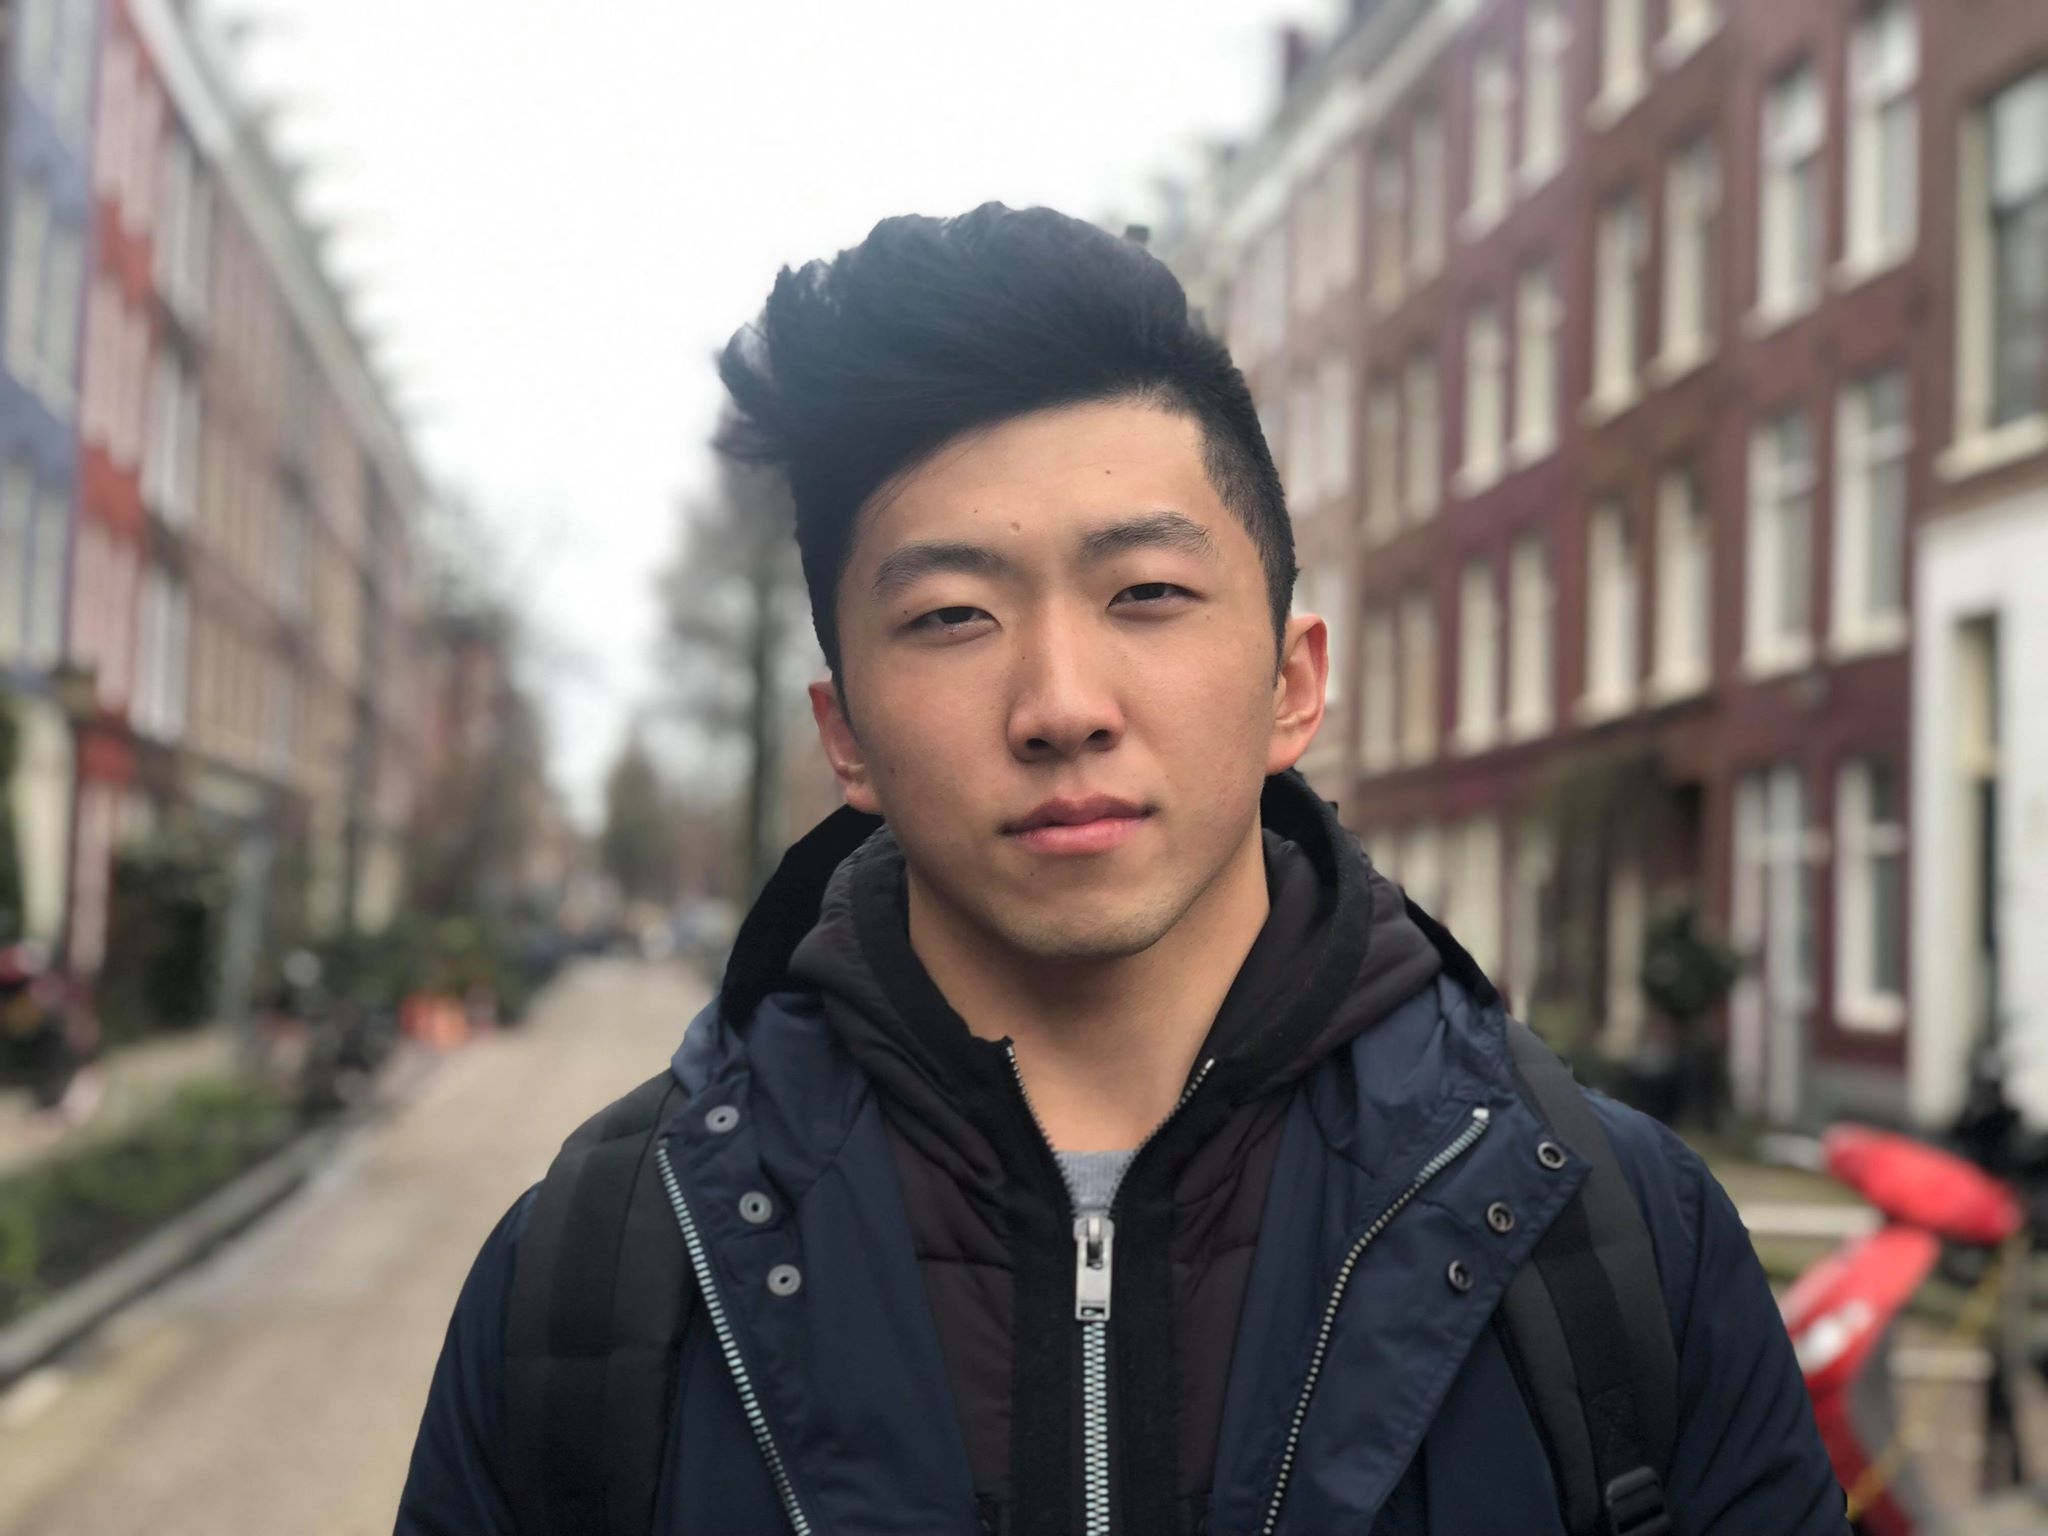
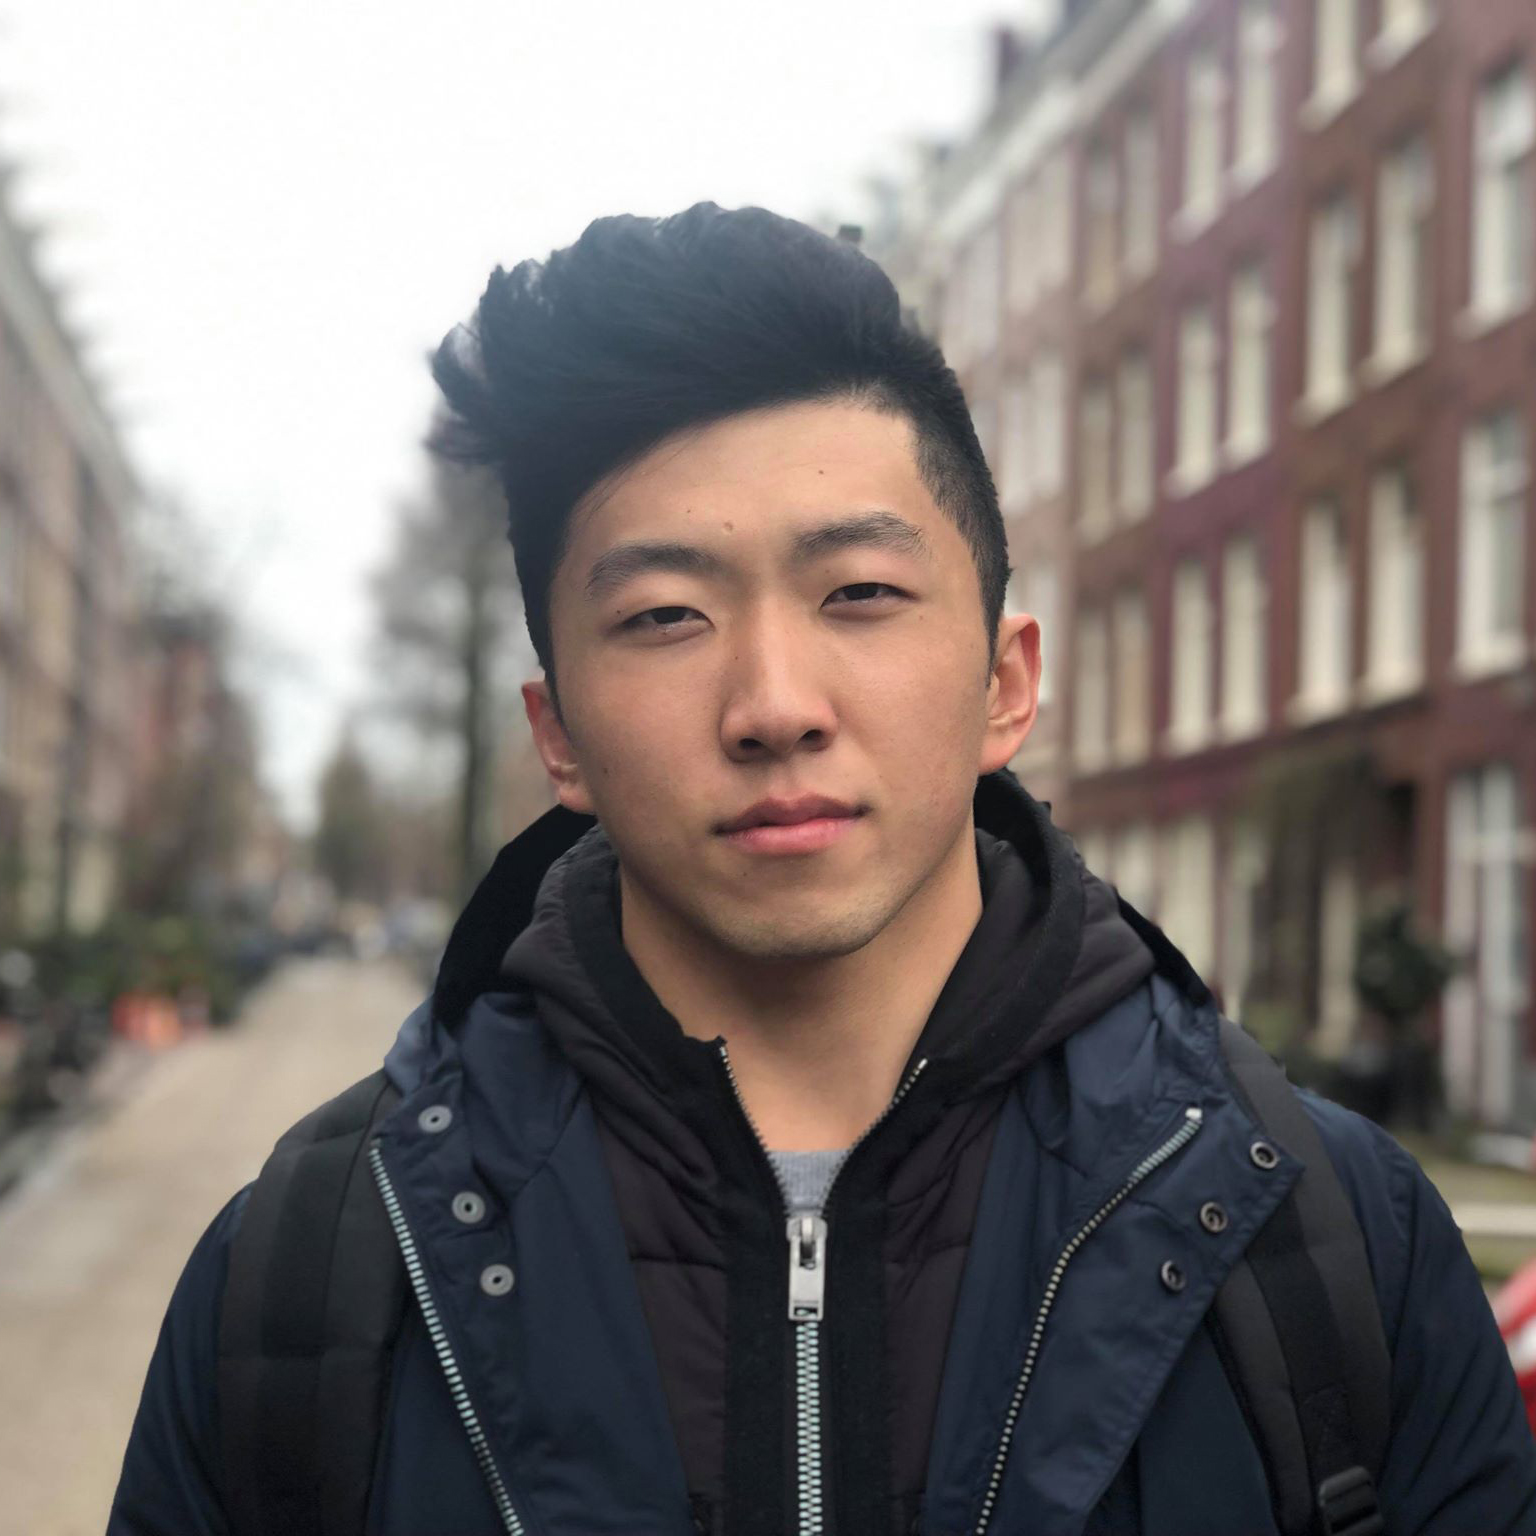
Entête crée

diff --git a/html/home.html b/html/home.html
@@ -2,34 +2,42 @@
 <html>
 <head>
 	<title>home</title>
-	<link rel="stylesheet" type="text/css" href="style.css">
+	<link rel="stylesheet" type="text/css" href="../css/style.css">
 	<link rel="stylesheet" href="https://stackpath.bootstrapcdn.com/bootstrap/4.3.1/css/bootstrap.min.css">
 	<script src="https://code.jquery.com/jquery-3.3.1.slim.min.js"></script>
 	<script src="https://cdnjs.cloudflare.com/ajax/libs/popper.js/1.14.7/umd/popper.min.js"></script>
 	<script src="https://stackpath.bootstrapcdn.com/bootstrap/4.3.1/js/bootstrap.min.js" ></script>
+
 </head>
 <body>
-	<!-----------------Entête----------------->
+<!-----------------Entête----------------->	
 	<nav class="navbar navbar-expand-lg navbar-dark bg-dark">
-  <a class="navbar-brand" href="#">Léon CHEN</a>
-  <button class="navbar-toggler" type="button" data-toggle="collapse" data-target="#navbarSupportedContent" aria-controls="navbarSupportedContent" aria-expanded="false" aria-label="Toggle navigation">
-    <span class="navbar-toggler-icon"></span>
-  </button>
+	<a class="navbar-brand" href="home.html">
+  		<img id=logo src="../images/LCLogo.png">
+  	</a>
 
   <div class="collapse navbar-collapse" id="navbarSupportedContent">
     <ul class="navbar-nav mr-auto">
       <li class="nav-item">
-        <a class="nav-link" href="#">Compétences</a>
+        <a class="nav-link" href="competences.html">Competences</a>
       </li>
       <li class="nav-item">
-        <a class="nav-link" href="#">Expériences</a>
+        <a class="nav-link" href="experiences.html">Experiences</a>
       </li>
       <li class="nav-item">
-        <a class="nav-link" href="#">Parcours</a>
+        <a class="nav-link" href="parcours.html">Parcours</a>
       </li>
     </ul>
   </div>
 </nav>
+
+<!-----------------Contenu----------------->	
+
+<div>
+	<img id="tete" src="../images/CVPhoto.jpg">
+	<h1>Actuellement</h1>
+</div>
+
 
 </body>
 </html>

diff --git a/html/header.html b/html/header.html
@@ -1,0 +1,21 @@
+<script src="https://ajax.googleapis.com/ajax/libs/jquery/3.4.1/jquery.min.js"></script>
+
+<nav class="navbar navbar-expand-lg navbar-dark bg-dark">
+	<a class="navbar-brand" href="home.html">
+  		<img id=logo src="../images/LCLogo.png">
+  	</a>
+
+  <div class="collapse navbar-collapse" id="navbarSupportedContent">
+    <ul class="navbar-nav mr-auto">
+      <li class="nav-item">
+        <a class="nav-link" href="competences.html">Competences</a>
+      </li>
+      <li class="nav-item">
+        <a class="nav-link" href="experiences.html">Experiences</a>
+      </li>
+      <li class="nav-item">
+        <a class="nav-link" href="parcours.html">Parcours</a>
+      </li>
+    </ul>
+  </div>
+</nav>

diff --git a/css/style.css b/css/style.css
@@ -1,0 +1,20 @@
+#logo{
+	width: 15%;
+	margin: -15px;
+	margin-top: -28px;
+	margin-bottom: : -28px;
+
+}
+
+#tete{
+	float:right;
+	width: 55%;
+	border-radius: 50%;
+	transform: translate(115%,0%);
+	position: absolute;
+	z-index: -2;
+}
+
+div h1{
+	size: 300px;
+}
